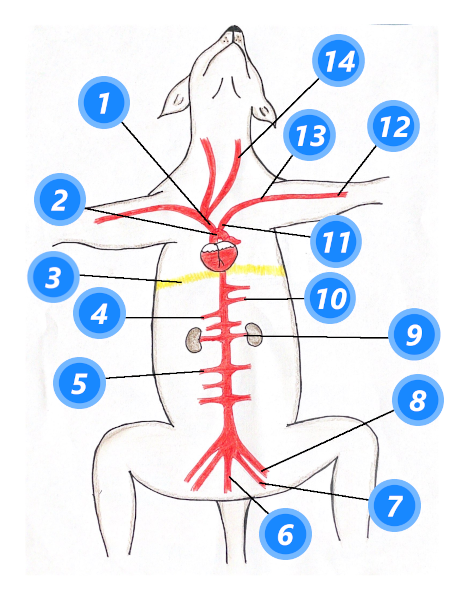
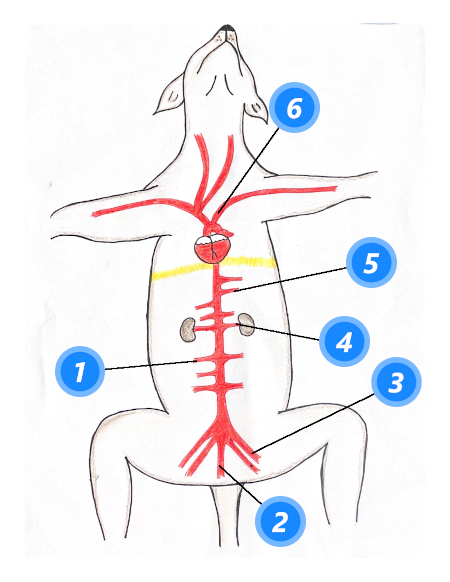
NavBar fix and arterias reduction in number of parts

diff --git a/src/components/juegoarterias.js b/src/components/juegoarterias.js
@@ -9,23 +9,15 @@ export default class JuegoArterias extends Component {
     super();
     this.state = {
       options: [
-        { value: 1, label: "Tronco Branquiocefálico" },
-        { value: 2, label: "Arco Aórtico" },
-        { value: 3, label: "Diafragma" },
-        { value: 4, label: "Arteria Abdominal" },
-        { value: 5, label: "Arteria Mesentérica Caudal" },
-        { value: 6, label: "Arteria Sacial Mediana" },
-        { value: 7, label: "Arteria Iliaca Interna izquierda" },
-        { value: 8, label: "Arteria Iliaca Externa izquierda" },
-        { value: 9, label: "Arteria Renal Izquierda" },
-        { value: 10, label: "Arteria Meséntrica cranial" },
-        { value: 11, label: "Arteria Subclavia" },
-        { value: 12, label: "Arteria Braquial" },
-        { value: 13, label: "Arteria Axilar" },
-        { value: 14, label: "Arteria Carótida común Izquierda" },
+        { value: 1, label: "Arteria Mesentérica Caudal" },
+        { value: 2, label: "Arteria Sacial Mediana" },
+        { value: 3, label: "Arteria Iliaca Externa izquierda" },
+        { value: 4, label: "Arteria Renal Izquierda" },
+        { value: 5, label: "Arteria Meséntrica cranial" },
+        { value: 6, label: "Arteria Subclavia" },
       ],
-      styles: [{}, {}, {}, {}, {}, {}, {}, {}, {}, {}, {}, {}, {}, {}],
-      states: [0, 0, 0, 0, 0, 0, 0, 0, 0, 0, 0, 0, 0, 0],
+      styles: [{}, {}, {}, {}, {}, {}],
+      states: [0, 0, 0, 0, 0, 0],
     };
   }
   z;
@@ -69,7 +61,8 @@ export default class JuegoArterias extends Component {
           <ul class="grid-items">
             <li class="item" style={this.state.styles[0]}>
               <span>1:</span>
-              <Select style={this.state.styles[0]}
+              <Select
+                style={this.state.styles[0]}
                 onChange={(e) => {
                   onChangeEvent(e, 1);
                 }}
@@ -78,7 +71,8 @@ export default class JuegoArterias extends Component {
             </li>
             <li class="item" style={this.state.styles[1]}>
               <span>2:</span>
-              <Select style={this.state.styles[1]}
+              <Select
+                style={this.state.styles[1]}
                 onChange={(e) => {
                   onChangeEvent(e, 2);
                 }}
@@ -87,7 +81,8 @@ export default class JuegoArterias extends Component {
             </li>
             <li class="item" style={this.state.styles[2]}>
               <span>3:</span>
-              <Select style={this.state.styles[2]}
+              <Select
+                style={this.state.styles[2]}
                 onChange={(e) => {
                   onChangeEvent(e, 3);
                 }}
@@ -96,110 +91,43 @@ export default class JuegoArterias extends Component {
             </li>
             <li class="item" style={this.state.styles[3]}>
               <span>4:</span>
-              <Select style={this.state.styles[3]}
+              <Select
+                style={this.state.styles[3]}
                 onChange={(e) => {
                   onChangeEvent(e, 4);
                 }}
                 options={this.state.options}
               />
             </li>
+
             <li class="item" style={this.state.styles[4]}>
               <span>5:</span>
-              <Select style={this.state.styles[4]}
+              <Select
+                style={this.state.styles[4]}
                 onChange={(e) => {
                   onChangeEvent(e, 5);
                 }}
                 options={this.state.options}
               />
             </li>
+
             <li class="item" style={this.state.styles[5]}>
               <span>6:</span>
-              <Select style={this.state.styles[5]}
+              <Select
+                style={this.state.styles[5]}
                 onChange={(e) => {
                   onChangeEvent(e, 6);
                 }}
                 options={this.state.options}
               />
             </li>
-            <li class="item" style={this.state.styles[6]}>
-              <span>7:</span>
-              <Select style={this.state.styles[6]}
-                onChange={(e) => {
-                  onChangeEvent(e, 7);
-                }}
-                options={this.state.options}
-              />
-            </li>
-            <li class="item" style={this.state.styles[7]}>
-              <span>8:</span>
-              <Select style={this.state.styles[7]}
-                onChange={(e) => {
-                  onChangeEvent(e, 8);
-                }}
-                options={this.state.options}
-              />
-            </li>
-            <li class="item" style={this.state.styles[8]}>
-              <span>9:</span>
-              <Select style={this.state.styles[8]}
-                onChange={(e) => {
-                  onChangeEvent(e, 9);
-                }}
-                options={this.state.options}
-              />
-            </li>
-            <li class="item" style={this.state.styles[9]}>
-              <span>10:</span>
-              <Select style={this.state.styles[9]}
-                onChange={(e) => {
-                  onChangeEvent(e, 10);
-                }}
-                options={this.state.options}
-              />
-            </li>
-            <li class="item" style={this.state.styles[10]}>
-              <span>11:</span>
-              <Select style={this.state.styles[10]}
-                onChange={(e) => {
-                  onChangeEvent(e, 11);
-                }}
-                options={this.state.options}
-              />
-            </li>
-            <li class="item" style={this.state.styles[11]}>
-              <span>12:</span>
-              <Select style={this.state.styles[11]}
-                onChange={(e) => {
-                  onChangeEvent(e, 12);
-                }}
-                options={this.state.options}
-              />
-            </li>
-            <li class="item" style={this.state.styles[12]}>
-              <span>13:</span>
-              <Select style={this.state.styles[12]}
-                onChange={(e) => {
-                  onChangeEvent(e, 13);
-                }}
-                options={this.state.options}
-              />
-            </li>
-            <li class="item" style={this.state.styles[13]}>
-              <span>14:</span>
-              <Select style={this.state.styles[13]}
-                onChange={(e) => {
-                  onChangeEvent(e, 14);
-                }}
-                options={this.state.options}
-              />
-            </li>
           </ul>
-            <div className="center btn-check-container">
-              <Link onClick={onClick} className="btn-check">
-                Verificar
-              </Link>
-            </div>
-          
+
+          <div className="center btn-check-container">
+            <Link onClick={onClick} className="btn-check">
+              Verificar
+            </Link>
+          </div>
         </ul>
       </div>
     );

diff --git a/src/components/NavBarLog.js b/src/components/NavBarLog.js
@@ -1,10 +1,9 @@
 import React, { useState } from "react";
-import { Button } from "./button";
 import { Link, useHistory } from "react-router-dom";
 import "./Navbar.css";
 import { useAuth } from "../firebase/AuthContext";
 
-function NavBar() {
+function NavBarLog() {
   const { currentUser, logout } = useAuth();
   const history = useHistory();
   const [click, setClick] = useState(false);
@@ -34,6 +33,8 @@ function NavBar() {
               Página principal
             </Link>
           </li>
+          <li>
+          </li>
           <li className="nav-item">
             <Link className="nav-links" onClick={handleLogout}>
               Logout
@@ -45,4 +46,4 @@ function NavBar() {
   );
 }
 
-export default NavBar;
+export default NavBarLog;

diff --git a/src/pages/crossword.js b/src/pages/crossword.js
@@ -1,7 +1,7 @@
 import React, { Component } from "react";
 
 import CrosswordComponent from "../components/crossword";
-import Navbar from "../components/NavBar";
+import NavbarLog from "../components/NavBarLog";
 
 export default class CrosswordPage extends Component {
   constructor() {
@@ -10,7 +10,7 @@ export default class CrosswordPage extends Component {
   render() {
     return (
       <div>
-        <Navbar />
+        <NavbarLog />
         <CrosswordComponent />
       </div>
     );

diff --git a/src/pages/Arterias.js b/src/pages/Arterias.js
@@ -1,12 +1,12 @@
 import React, { Component } from "react";
 import JuegoArterias from "../components/juegoarterias";
-import NavBar from "../components/NavBar";
+import NavBarLog from "../components/NavBarLog";
 
 export default class Arterias extends Component {
   render() {
     return (
       <>
-        <NavBar />
+        <NavBarLog/>
         <JuegoArterias />
       </>
     );

diff --git a/src/pages/cardpairs.js b/src/pages/cardpairs.js
@@ -1,12 +1,12 @@
 import React, { Component } from "react";
 
-import NavBar from "../components/NavBar";
+import NavBarLog from "../components/NavBarLog";
 import CardPairs from "../components/cardPairs";
 export default class CardPage extends Component {
   render() {
     return (
       <div>
-        <NavBar />
+        <NavBarLog/>
         <CardPairs />
       </div>
     );

diff --git a/src/pages/rompecabezas.js b/src/pages/rompecabezas.js
@@ -1,5 +1,5 @@
 import React, { Component } from "react";
-import NavBarLog from "../components/NavBar";
+import NavBarLog from "../components/NavBarLog";
 import { JigsawPuzzle } from "../components/index";
 import base from "../components/images/axilar.jpeg";
 import cabeza from "../components/images/celateral.jpeg";

diff --git a/src/pages/wordsearch.js b/src/pages/wordsearch.js
@@ -1,6 +1,6 @@
 import React, { Component } from "react";
 import WordSearch from "../components/wordsearch";
-import NavBarLog from "../components/NavBar";
+import NavBarLog from "../components/NavBarLog";
 
 export default class WordSearchPage extends Component {
   render() {

diff --git a/src/components/juegoarterias.css b/src/components/juegoarterias.css
@@ -17,7 +17,7 @@
 }
 .grid-items {
   display: grid;
-  grid-template-columns: repeat(2, 1fr);
+  grid-template-columns: repeat(3, 1fr);
 }
 
 .lista-juego {
